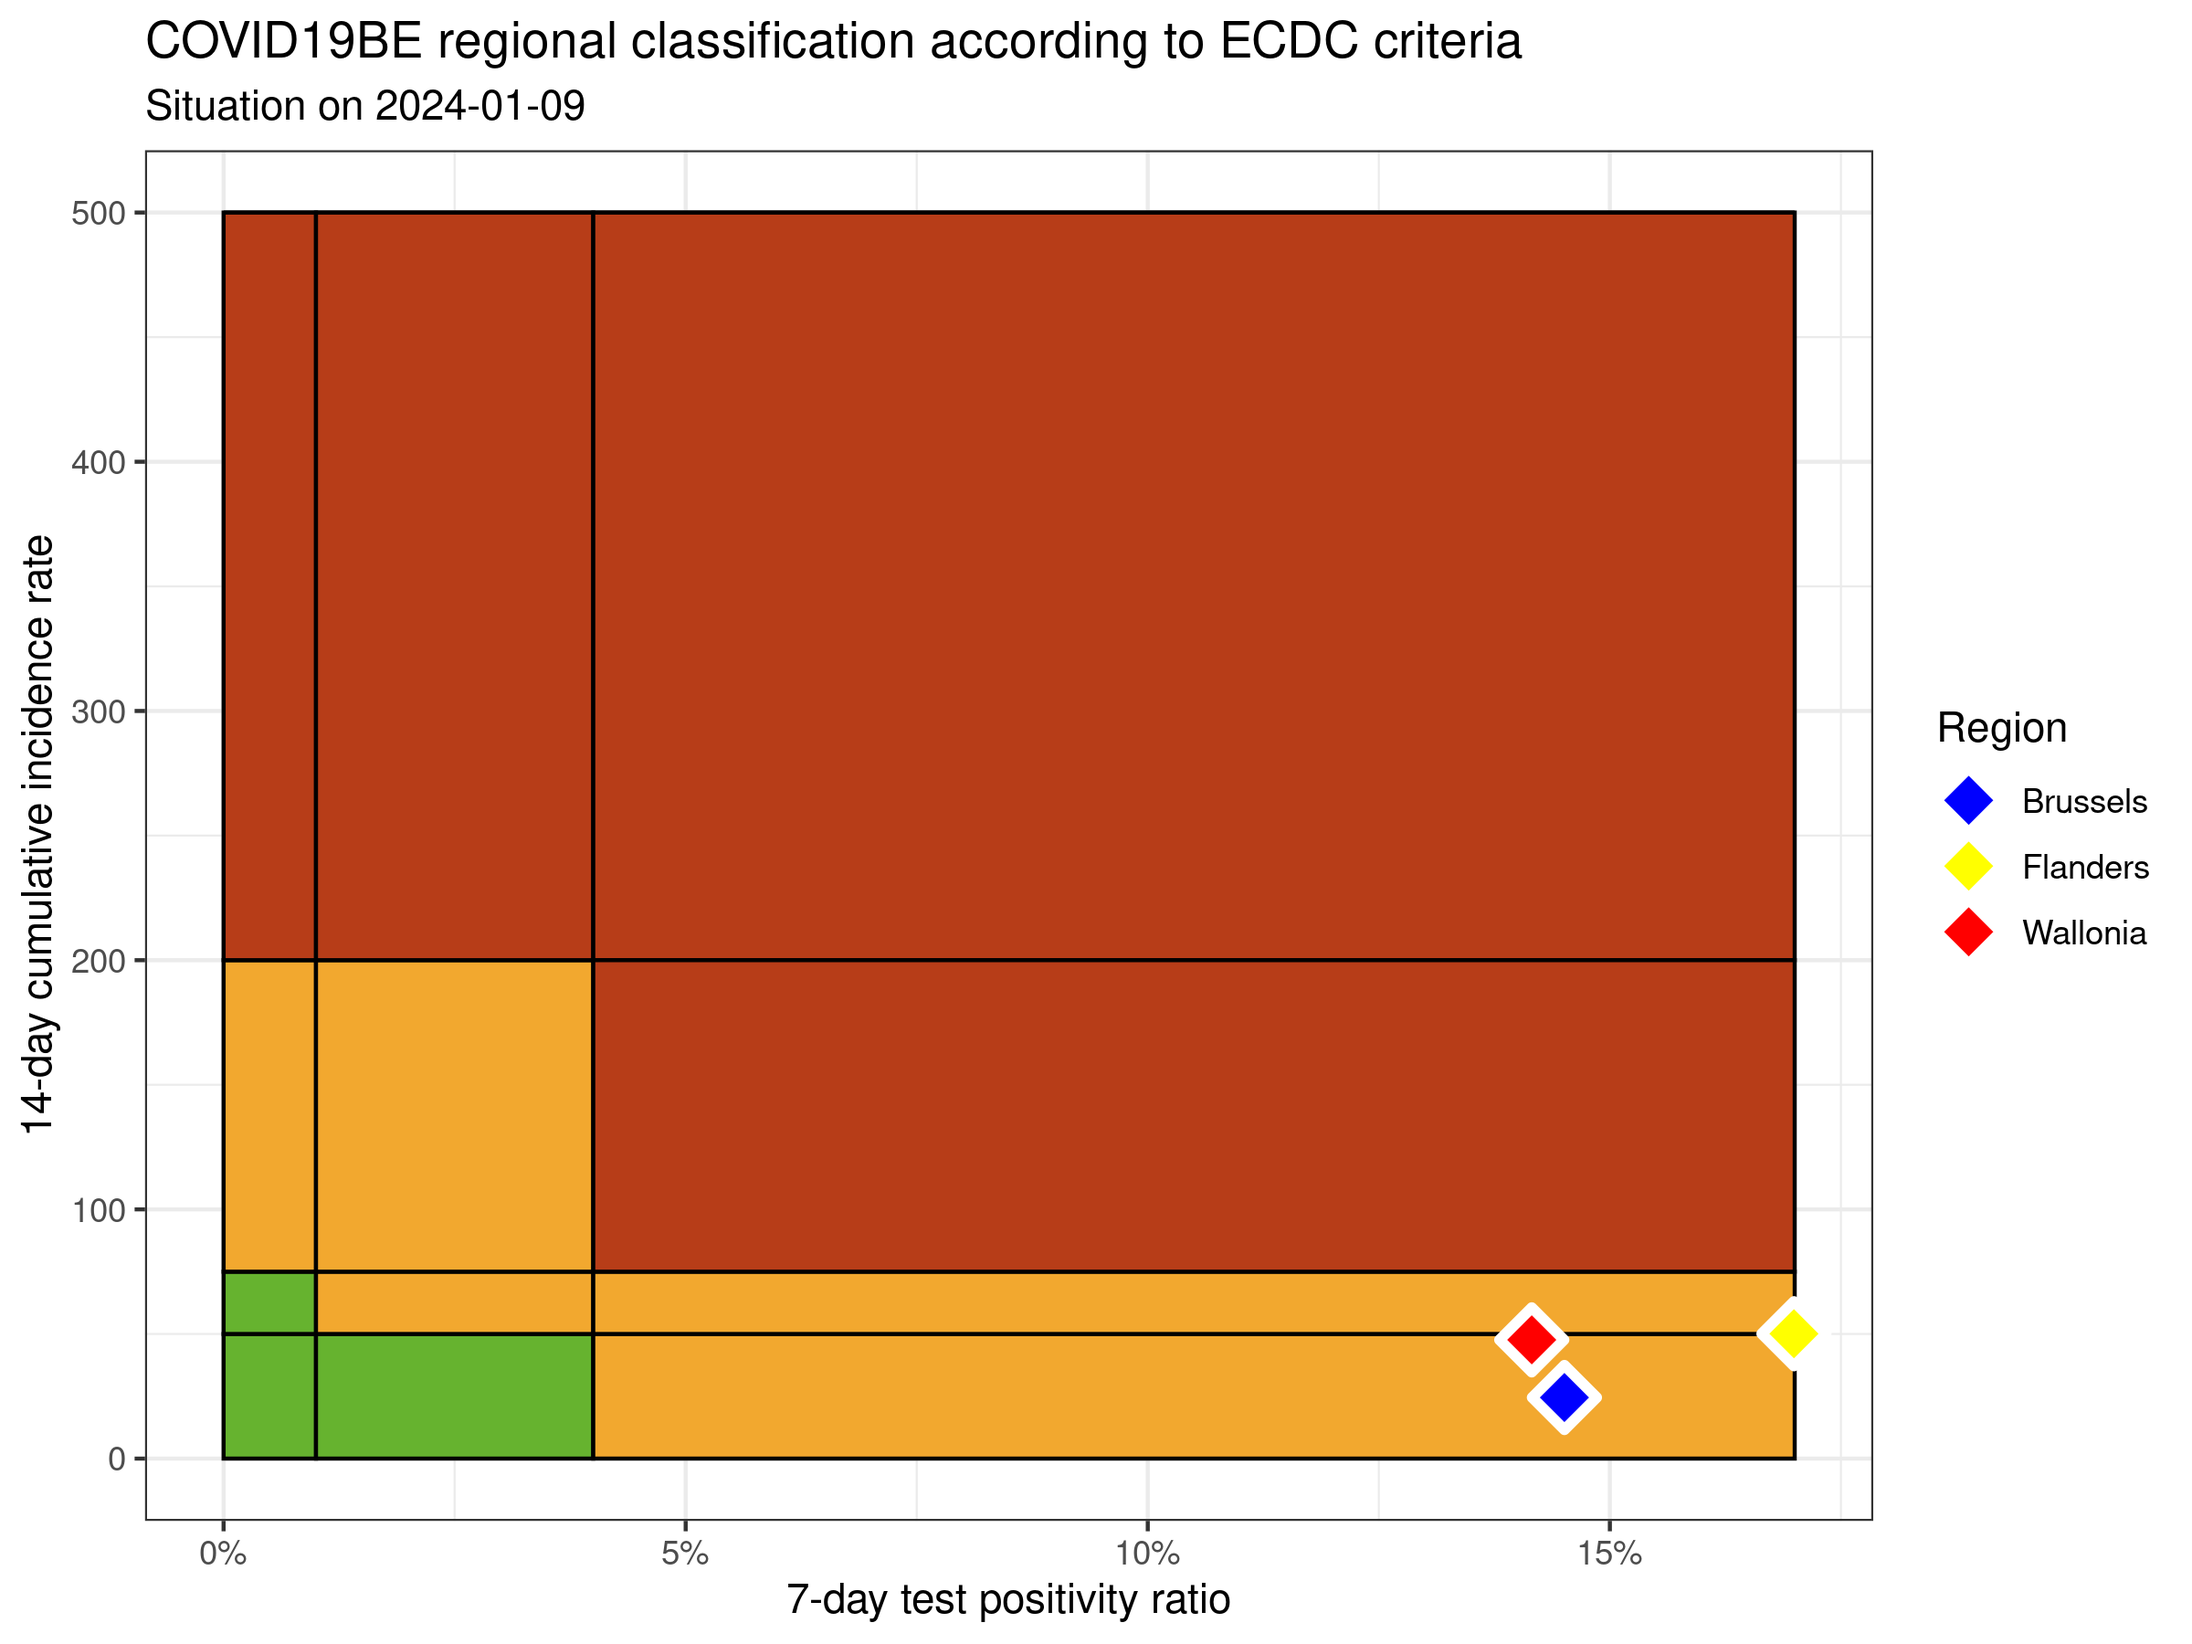
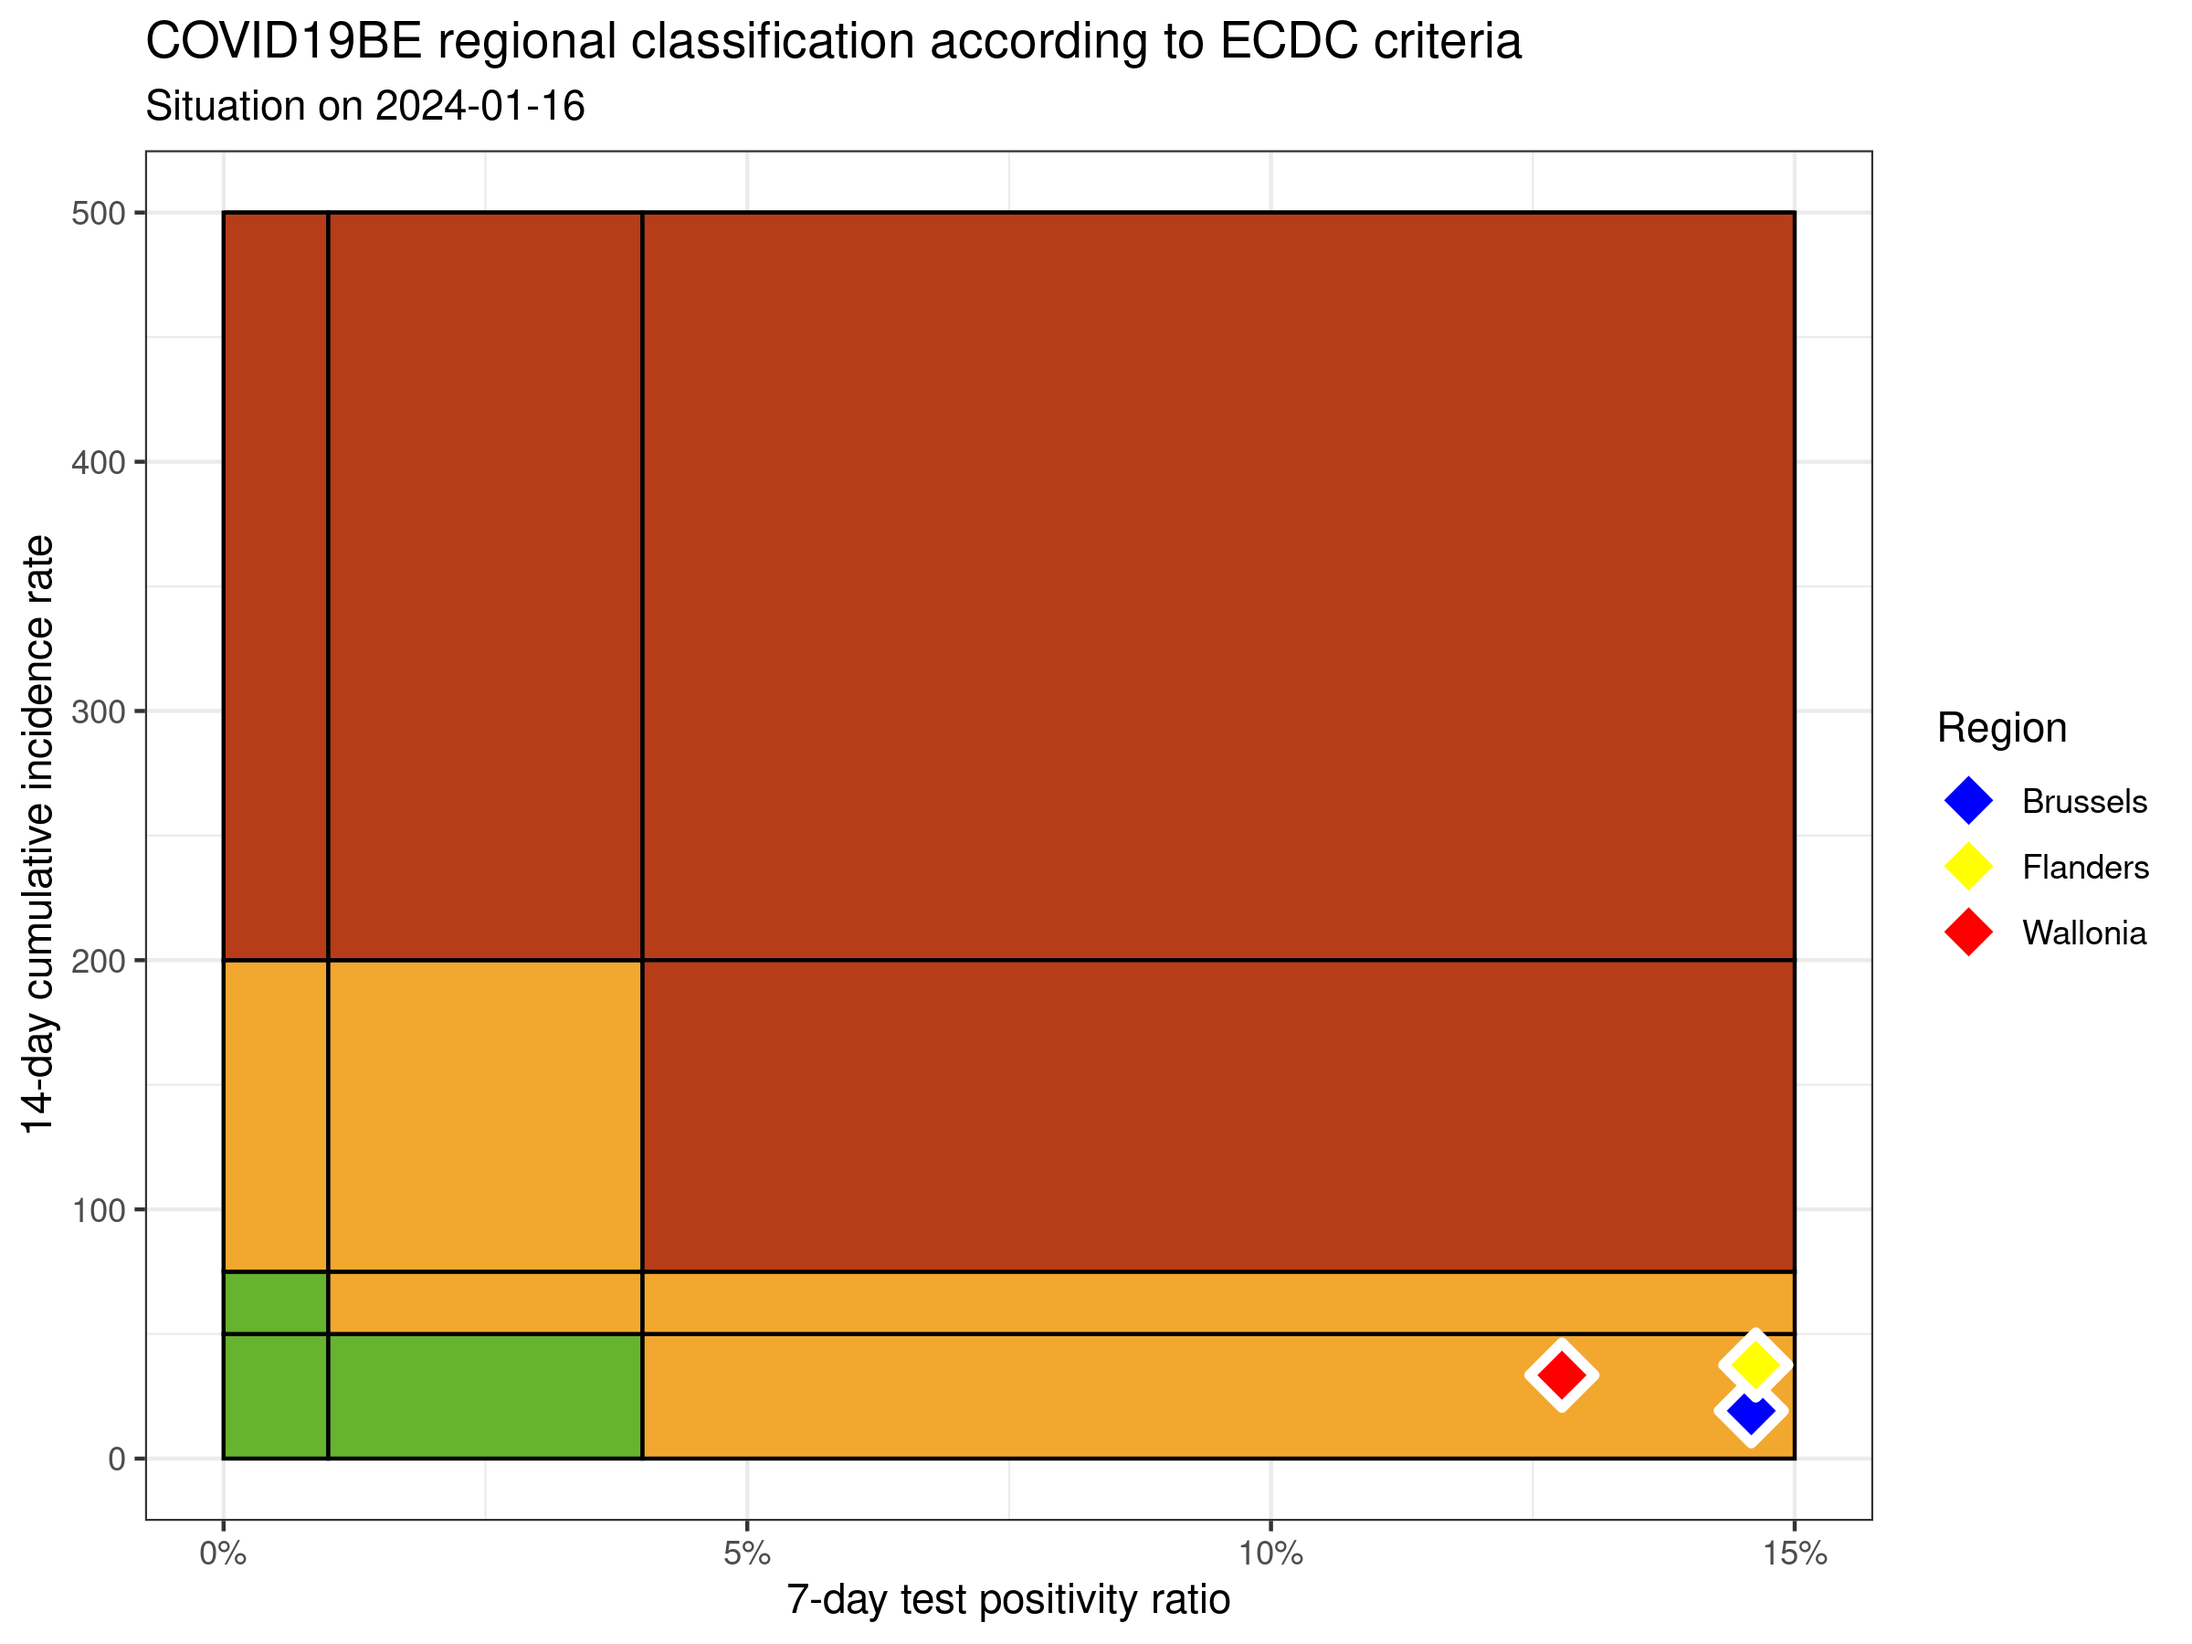
update situation

diff --git a/ecdc-trend/README.md b/ecdc-trend/README.md
@@ -9,11 +9,11 @@
 
 ![](COVID9BE-ecdc-trend.png)
 
-|          | INC14 | INC7 |  TST7 | TST\_POS7 | REGION   |     POP | INC14\_RT |       PR7 |          GR |
-| :------- | ----: | ---: | ----: | --------: | :------- | ------: | --------: | --------: | ----------: |
-| Brussels |   299 |  131 |  1027 |       149 | Brussels | 1219970 |  24.50880 | 0.1450828 | \-0.2202381 |
-| Flanders |  3333 | 1434 | 10458 |      1777 | Flanders | 6653062 |  50.09723 | 0.1699178 | \-0.2448657 |
-| Wallonia |  1738 |  714 |  5892 |       834 | Wallonia | 3648206 |  47.63985 | 0.1415479 | \-0.3027344 |
+|          | INC14 | INC7 | TST7 | TST\_POS7 | REGION   |     POP | INC14\_RT |       PR7 |          GR |
+| :------- | ----: | ---: | ---: | --------: | :------- | ------: | --------: | --------: | ----------: |
+| Brussels |   234 |  100 |  857 |       125 | Brussels | 1219970 |  19.18080 | 0.1458576 | \-0.2537313 |
+| Flanders |  2499 | 1064 | 9454 |      1383 | Flanders | 6653062 |  37.56165 | 0.1462873 | \-0.2585366 |
+| Wallonia |  1221 |  506 | 5713 |       730 | Wallonia | 3648206 |  33.46850 | 0.1277788 | \-0.2923077 |
 
 ### Read more
 
